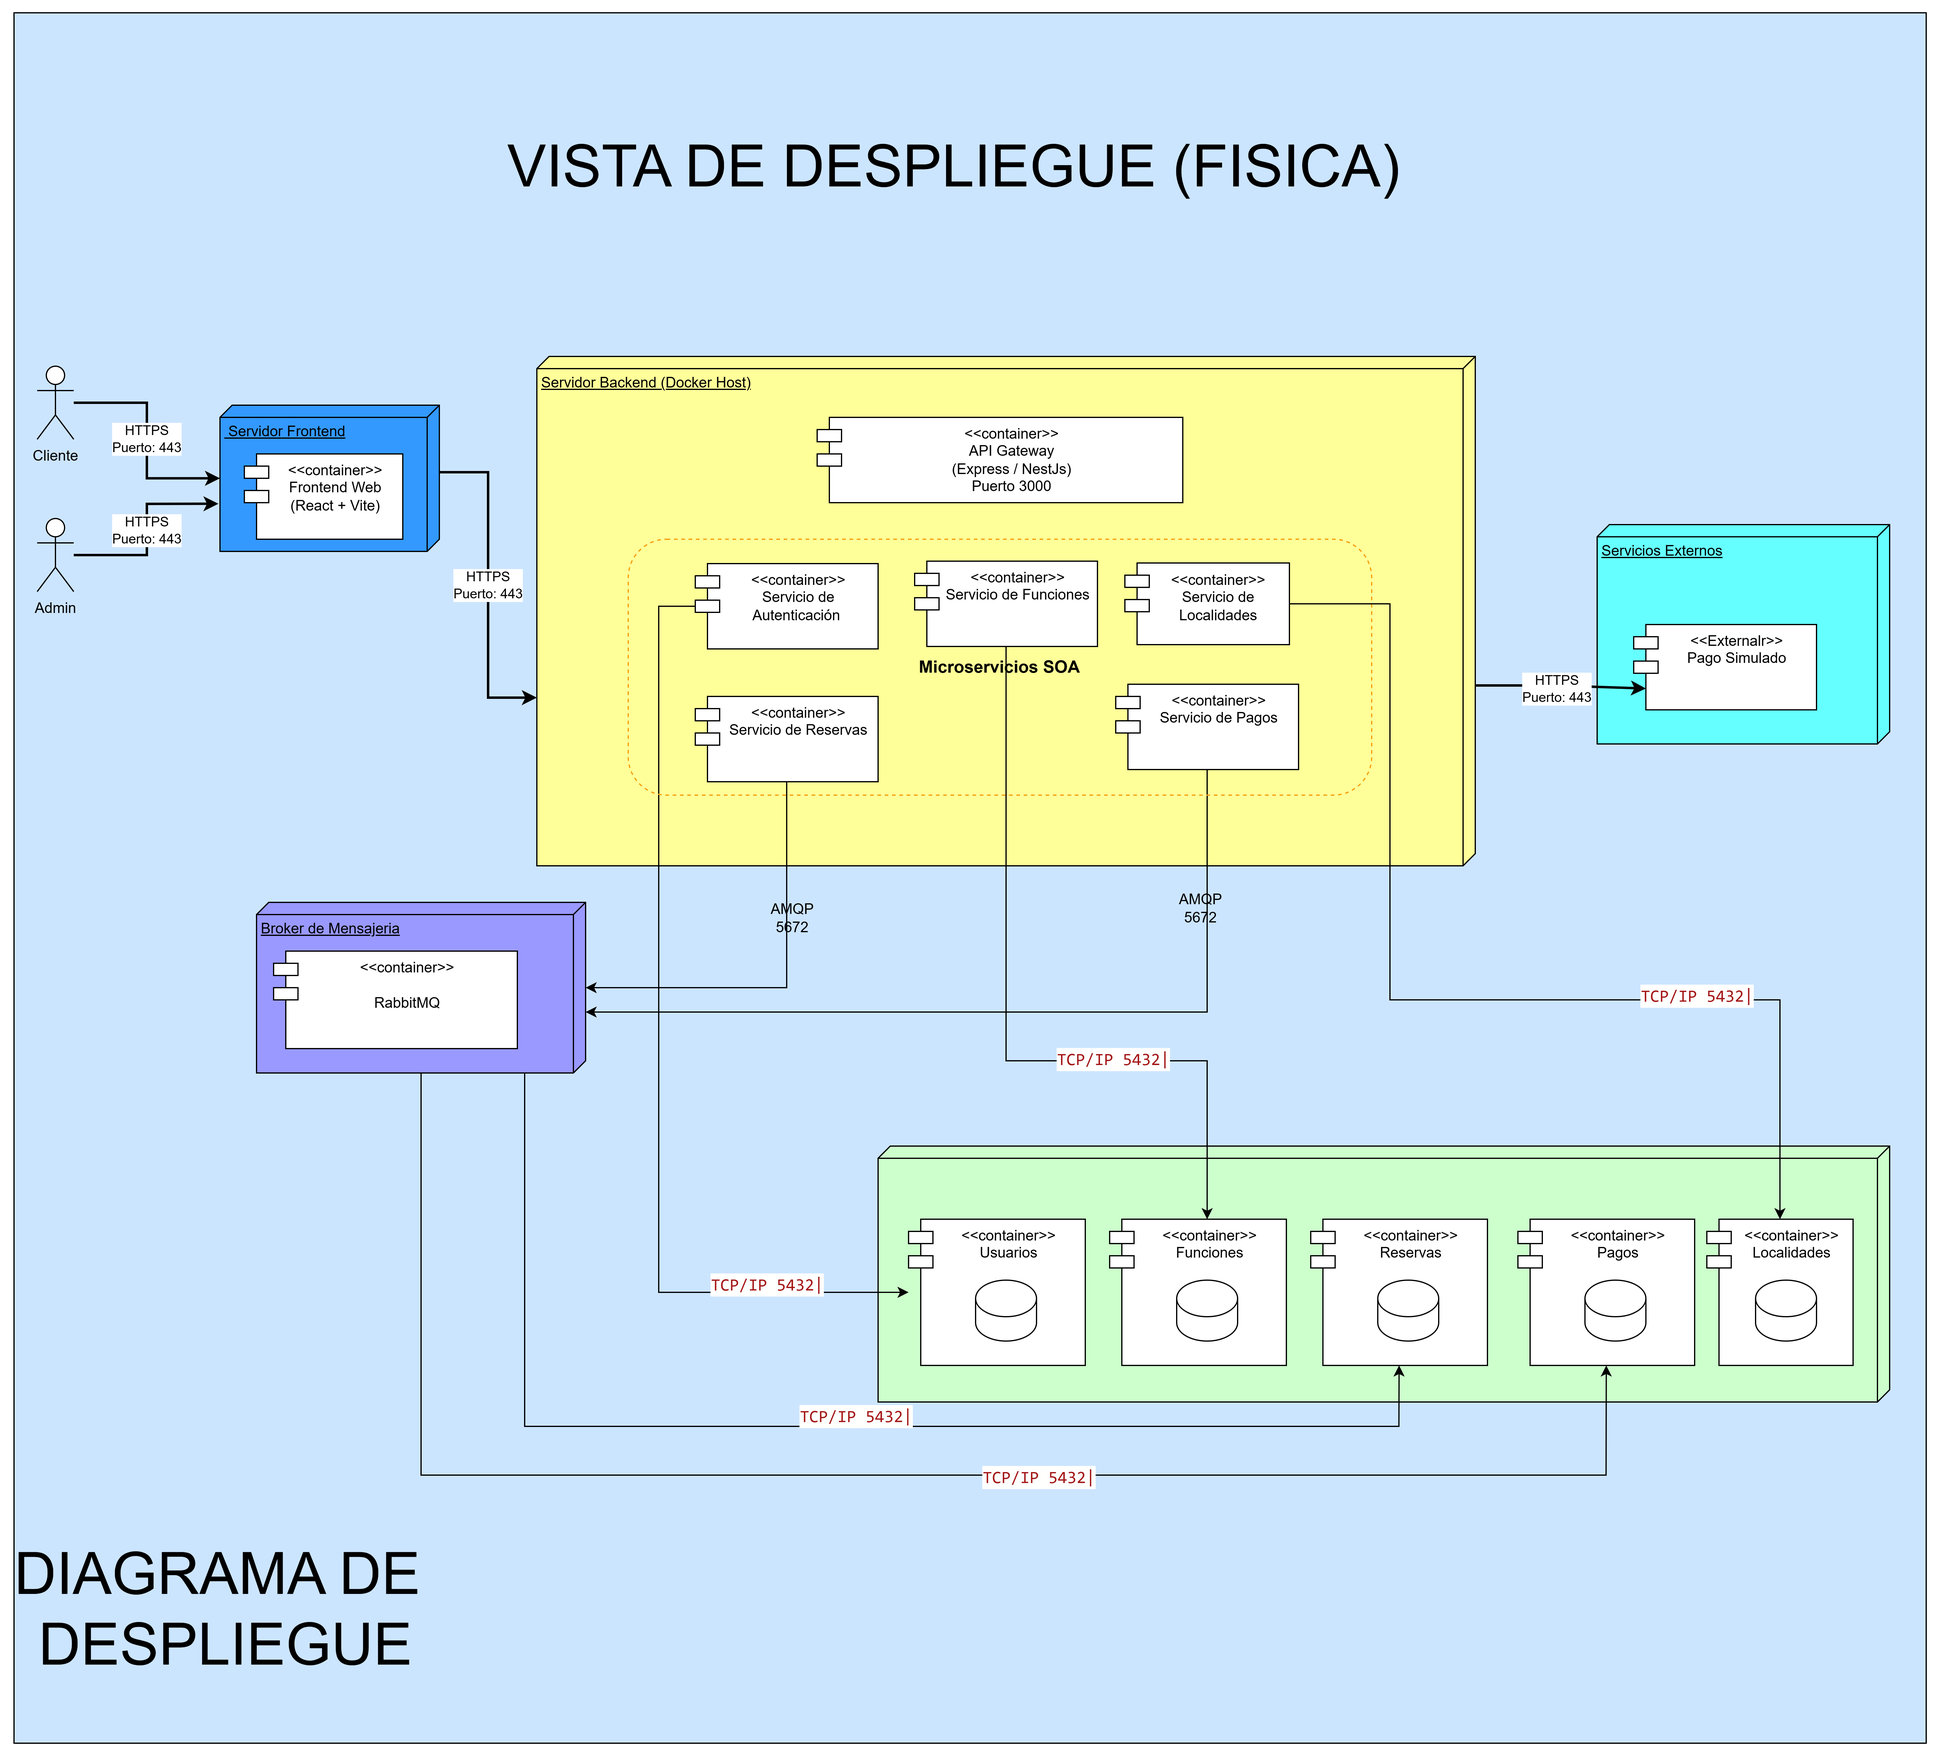
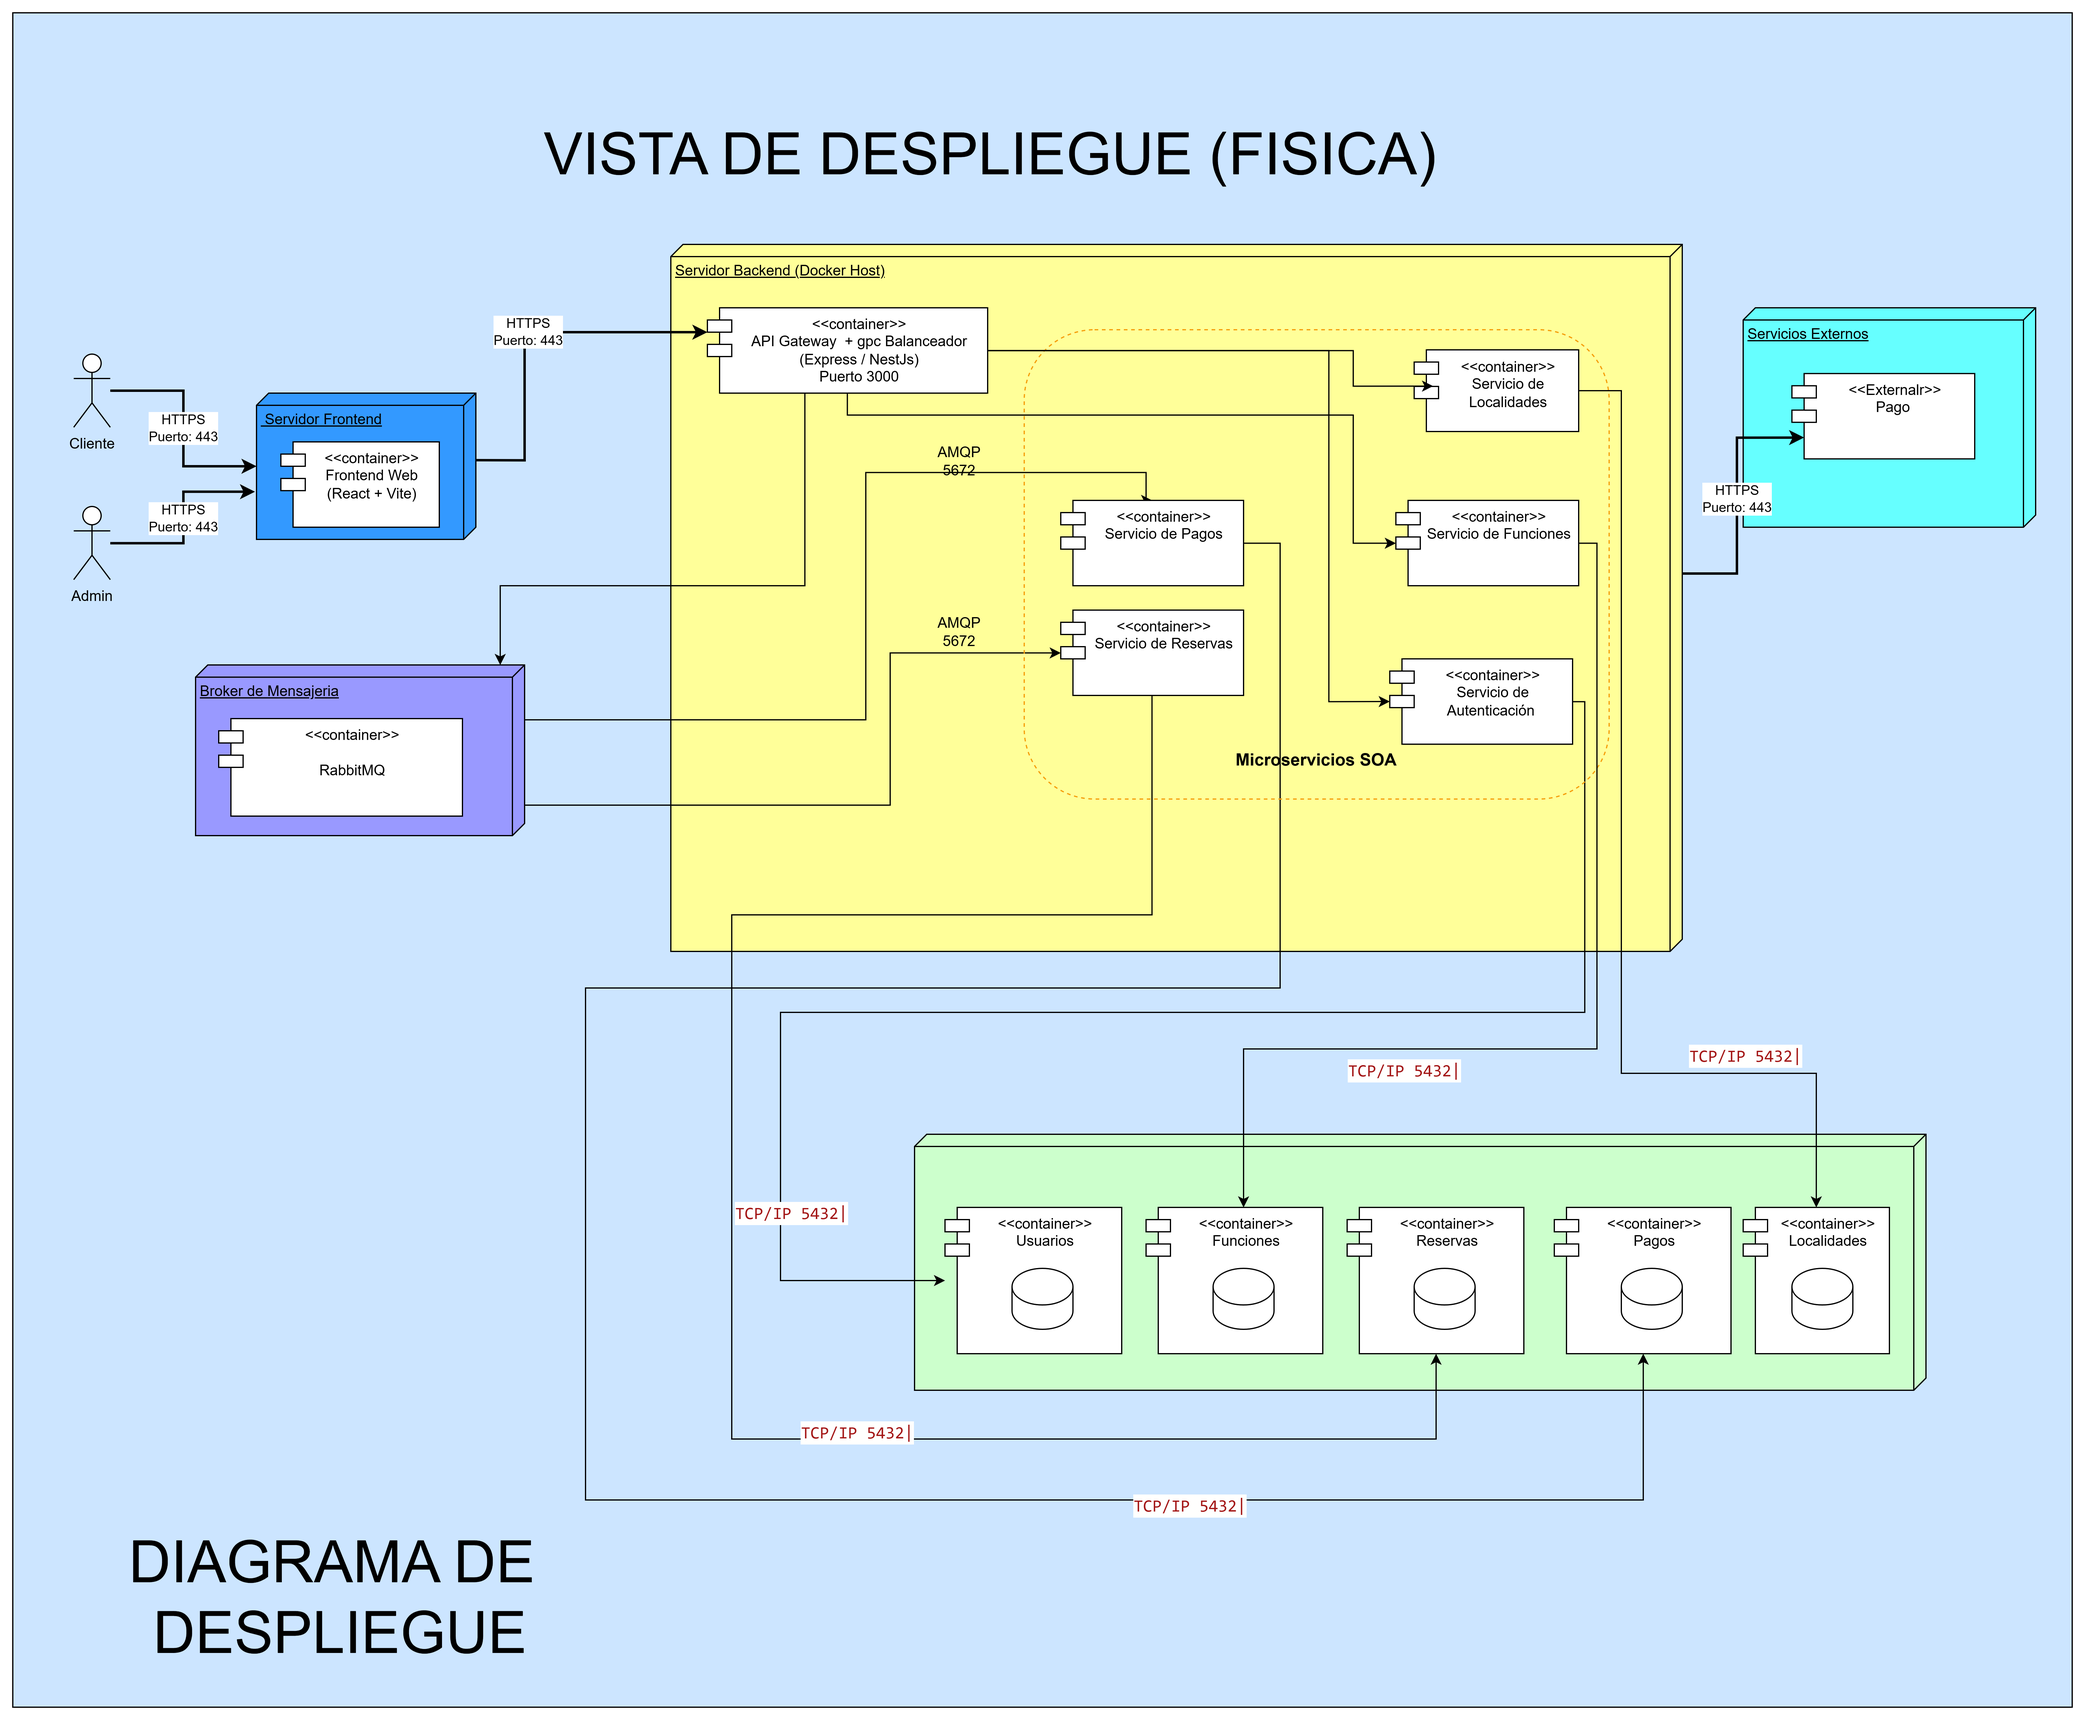
fix:202204578: modifiaciones a diagramas

Changed region(s): [[0.0, 0.0624, 0.9956, 0.6237], [0.3422, 0.5613, 0.9956, 0.9043], [0.0, 0.8731, 0.2489, 0.9667]]

diff --git a/Practica1/Doc/Diagramas_Estructurales/Diagrama_Arquitectura_General.md b/Practica1/Doc/Diagramas_Estructurales/Diagrama_Arquitectura_General.md
@@ -103,5 +103,9 @@ La arquitectura sincronica y la asincronica no se contradicen, sino que se compl
 
 En conjunto, ambas muestran una arquitectura orientada a servicios, con separacion por dominios, autenticacion basada en JWT, persistencia distribuida en PostgreSQL y soporte de mensajeria mediante RabbitMQ para operaciones de mayor desacoplamiento.
 
+link de archivo crudo de diagrama de arquitectura en draw.io
+
+[Diagrama de Arquitectura](https://app.diagrams.net/#G1MppILJLtfuZoiN-tyD_ywHO-iltpBi4f)
+
 
 [Volver a Documentacion](../Documentación.md)

diff --git a/Practica1/Doc/Vistas4+1/Vistas_4+1.md b/Practica1/Doc/Vistas4+1/Vistas_4+1.md
@@ -87,5 +87,8 @@ La vista de escenarios también conocida como vista de casos de uso interactúa 
 
 ![Vista de Escenarios](./img/Practica1-Vista-Escenarios.drawio.svg)
 
+
+
+[\[archivo crudo de vistas 4+1\](https://app.diagrams.net/#G17zqvzKtzFauwvckD7d33XzBFcmADsWsG#%7B%22pageId%22%3A%228e4zzOSsQAcUt3Mhw_pj%22%7D)](https://drive.google.com/file/d/17zqvzKtzFauwvckD7d33XzBFcmADsWsG/view?usp=sharing)
 ---
 [Volver a Documentacion](../Documentación.md)
